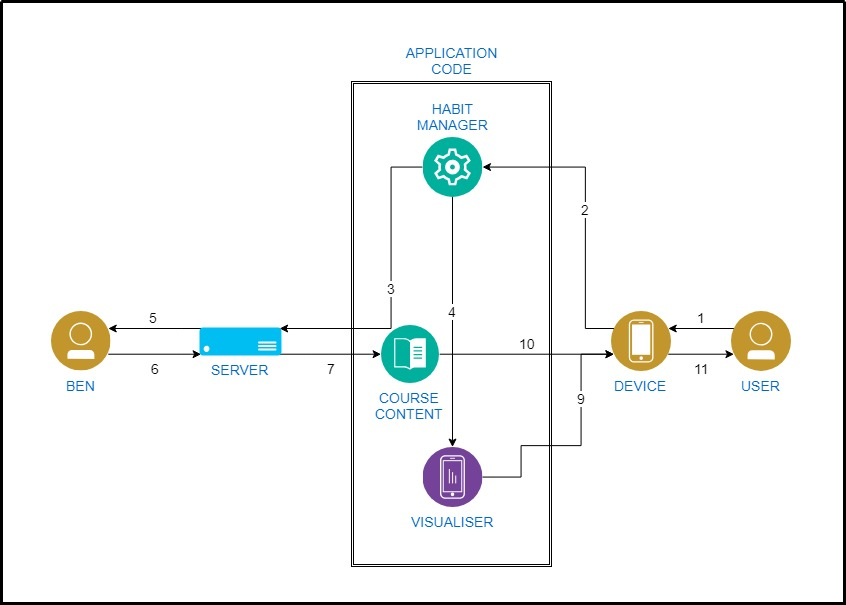
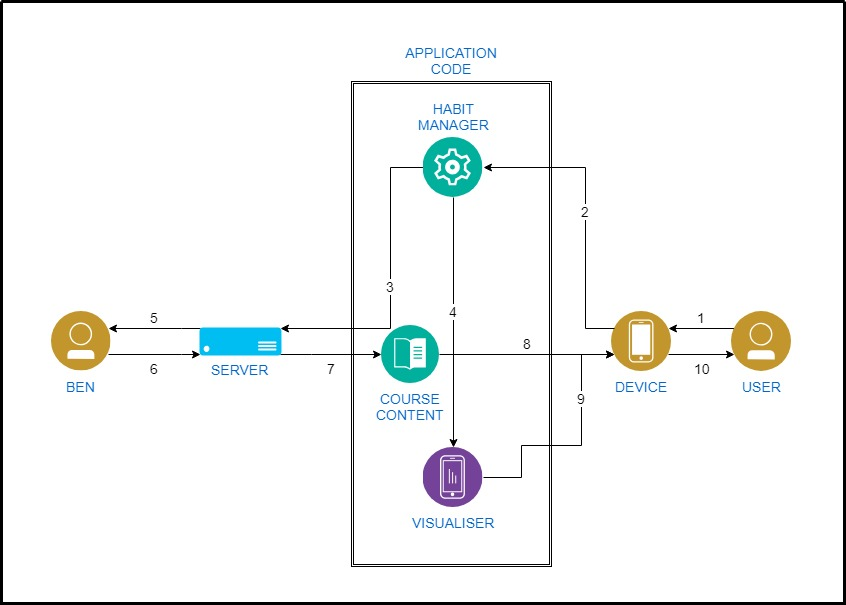
Architecture diagram

diff --git a/Portfolio A/OO Design & UML.md b/Portfolio A/OO Design & UML.md
@@ -19,9 +19,15 @@ This section must not exceed 3 pages of A4, including the diagrams and their res
 
 Each annotated arrow desrcibes the following processes:
 1. The user sends data to the device, this could be a checked habit for the day, for example.
-1. The data sent to the device from the user is then forwareded to the Habit manager, which will process and update the appropriate        variables within the application.
-1. The Habit manager will send the appropriate data to the server, i.e. the information surrounding habit completion overall.
-1. The Habit manager processes the score
+1. The data sent to the device from the user is then forwarded to the habit manager, which will process and update the appropriate        variables within the application.
+1. The habit manager will send the appropriate data to the server, i.e. the information surrounding habit completion overall.
+1. The habit manager processes the score based on the input from the user and forwards it to the visualisation class.
+1. The server communicates interaction data of all users to Ben.
+1. Ben sends any updates he wishes to make to the course content to the server.
+1. The server forwards these updates to the class holding the course content within the application.
+1. The course content is outputted to the device.
+1. All data that needs visualising, e.g. Score, days logged in etc. is processed and sent to the device.
+1. All recieved data is then displayed on the device for the user to view.
 
 # Static UML Diagram: Habits
 ![](https://github.com/simon-wh/66-Days/blob/master/Portfolio%20A/Images/Habits%20UML.png?raw=true)
